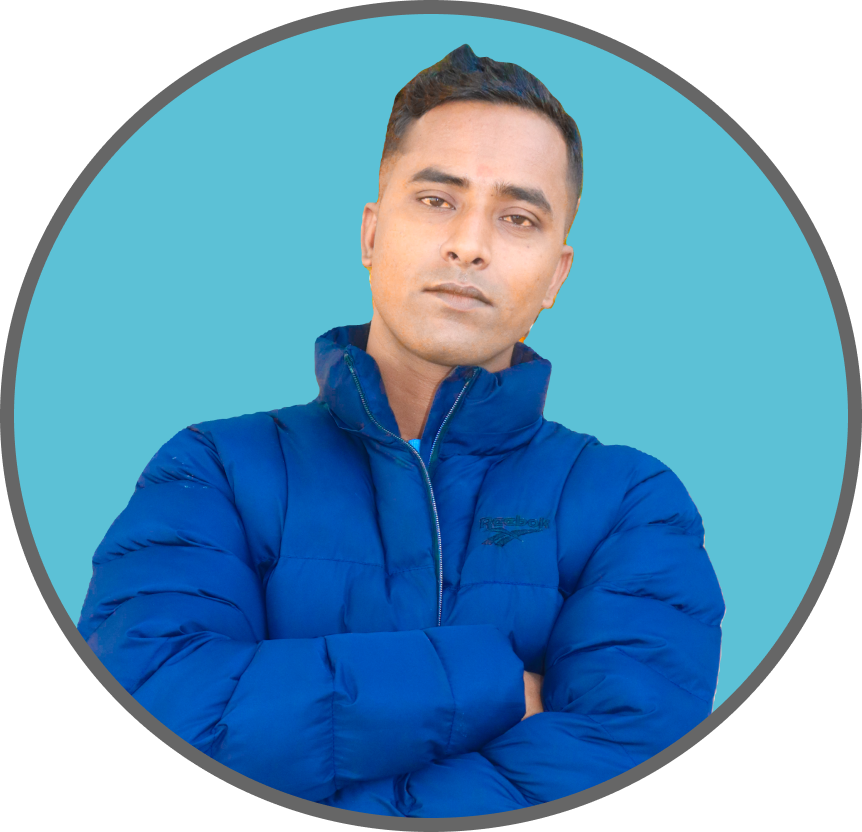
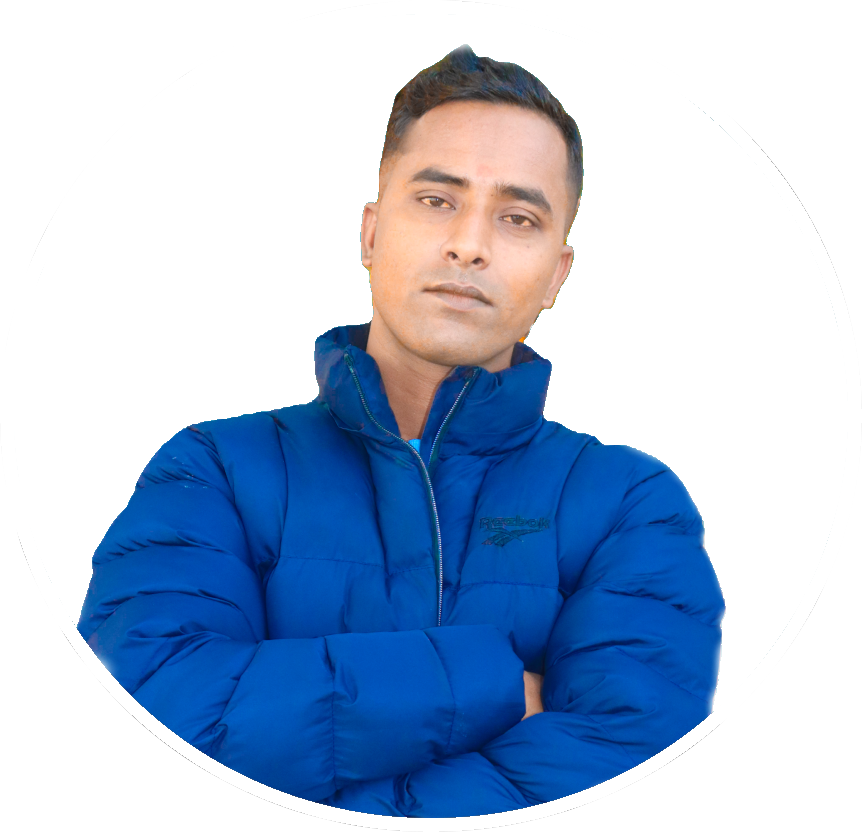
Second update
Changed hero section background image.

diff --git a/index.css b/index.css
@@ -83,7 +83,7 @@ nav ul li a {
   color: white;
   text-decoration: none;
   position: relative;
-  font-size: 1.2rem;
+  font-size: 1.12rem;
 }
 
 nav ul li a::before {
@@ -102,17 +102,16 @@ nav ul li a:hover::before {
 }
 #home-section {
   width: 100%;
-  background-image: url("assets/images/Homeprofile3.png");
+  background-image: url("assets/images/profile.png");
   background-repeat: no-repeat;
-  background-size: 40% auto;
+  background-size: 25% auto;
   background-position-x: 80%;
-  background-position-y: 4rem;
+  background-position-y: 7rem;
   background-attachment: fixed;
   height: 100vh;
   display: flex;
   align-items: center;
   /* justify-content: center; */
-
   padding: 20px;
 }
 
@@ -122,8 +121,8 @@ nav ul li a:hover::before {
 }
 
 .text-container h2 {
-  font-size: 30px;
-  color: white;
+  font-size: 25px;
+  color: darkturquoise;
   font-weight: normal;
   margin-bottom: 10px;
   font-style: oblique;
@@ -183,7 +182,7 @@ nav ul li a:hover::before {
     height: 25px;
   }
   .navbar ul {
-    background-color: #132d3f;
+    background-color: rgb(19, 45, 63);
     opacity: 9;
     position: fixed;
     top: 0;
@@ -226,10 +225,10 @@ nav ul li a:hover::before {
     width: 100%;
     /* background-image: url("assets/images/Homeprofile1.png"); */
     background-repeat: no-repeat;
-    background-size: 120% auto;
-    background-position: right;
+    background-size: 95% auto;
+    background-position: center;
     background-position-y: 5rem;
-    background-position-x: -1rem;
+    /* background-position-x: rem; */
     background-attachment: fixed;
     height: 100vh;
     display: flex;

diff --git a/about_style.css b/about_style.css
@@ -12,7 +12,7 @@
   display: flex;
   justify-content: center;
   align-items: center;
-  /* gap: 5%; */
+  padding: 30px;
 }
 .about-picture {
   position: relative;
@@ -22,27 +22,16 @@
   z-index: 127;
 }
 .about-text {
-  display: flex;
-  align-items: flex-start;
-  justify-content: flex-start;
-  position: relative;
-  width: 30%;
+  width: 60%;
   height: fit-content;
-
-  color: #d9d9d9;
+  color: white;
   font-family: Inter, var(--default-font-family);
   font-weight: 400;
-  line-height: 19.364px;
-  text-align: left;
+  line-height: 30px;
+  text-align: justify;
   z-index: 126;
-  /* position: relative;
-  width: 40%;
-  height: 40%;
-  top: 0;
-  left: 0; */
-}
-.about-profile {
-  width: 60%;
+  box-shadow: 0 0 8px 8px rgba(19, 45, 63, 0.3);
+  padding: 30px;
 }
 
 .about-me {
@@ -54,10 +43,11 @@
 /* ----For small screen---- */
 @media only screen and (max-width: 600px) {
   #about-section {
-    padding: 20px;
+    padding: 30px 10px;
   }
   .about-container {
-    flex-direction: column;
+    padding: 20px;
+    width: 100%;
   }
   .about-picture {
     width: 100%;

diff --git a/index.html b/index.html
@@ -4,7 +4,7 @@
 <head>
   <meta charset="UTF-8">
   <meta name="viewport" content="width=device-width, initial-scale=1.0">
-  <title>Profile</title>
+  <title>Sanjay Das</title>
   <link rel="stylesheet" href="https://fonts.googleapis.com/css2?family=Poppins:wght@600&display=swap" />
   <link rel="stylesheet" href="https://fonts.googleapis.com/css2?family=Inter:wght@400;500;600&display=swap" />
   <link rel="stylesheet" href="index.css" />
@@ -64,9 +64,6 @@
     <div id="about-section">
       <span class="about-me">About Me</span>
       <div class="about-container">
-        <div class="about-picture">
-          <img src="assets/images/aboutProfile.png" alt="" class="about-profile">
-        </div>
         <div class="about-text">
           <span>As a Full Stack Developer, I thrive on solving complex problems and
             continuously improving my skill set. My journey in software

diff --git a/education_section_style.css b/education_section_style.css
@@ -43,7 +43,7 @@
 
 .experience-container {
   width: 40%;
-  height: 40vh;
+  height: fit-content;
 }
 
 .experience-text {
@@ -80,7 +80,7 @@
 .slc {
   background-color: #999999;
   border-radius: 20px;
-  height: 19vh;
+  height: fit-content;
   padding: 20px;
   color: #081b29;
   margin-bottom: 20px;
@@ -108,9 +108,15 @@
   color: aliceblue;
   transform: translateX(-10px);
 }
+@media only screen and (max-width: 1366) {
+  .dit,
+  .slc {
+    height: fit-content;
+  }
+}
 @media only screen and (max-width: 600px) {
   #education-section {
-    padding: 30px 20px;
+    padding: 0 20px;
     height: fit-content;
   }
   .education-container {

diff --git a/contact_style.css b/contact_style.css
@@ -72,6 +72,7 @@
   font-weight: 600;
   border: 2px solid;
   transition: 1s;
+  color: #081b29;
 }
 
 .btn:hover {
